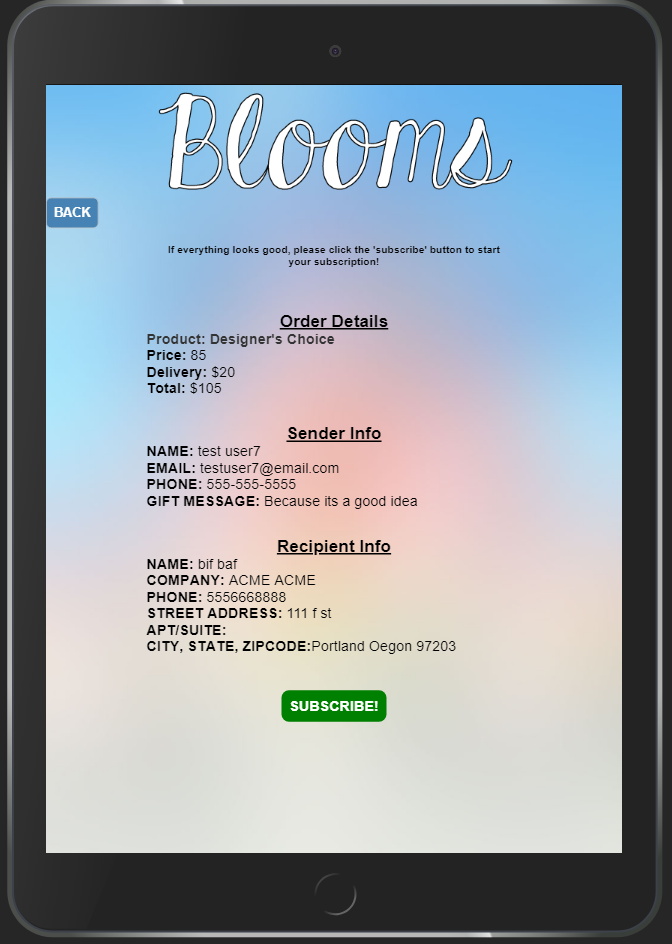
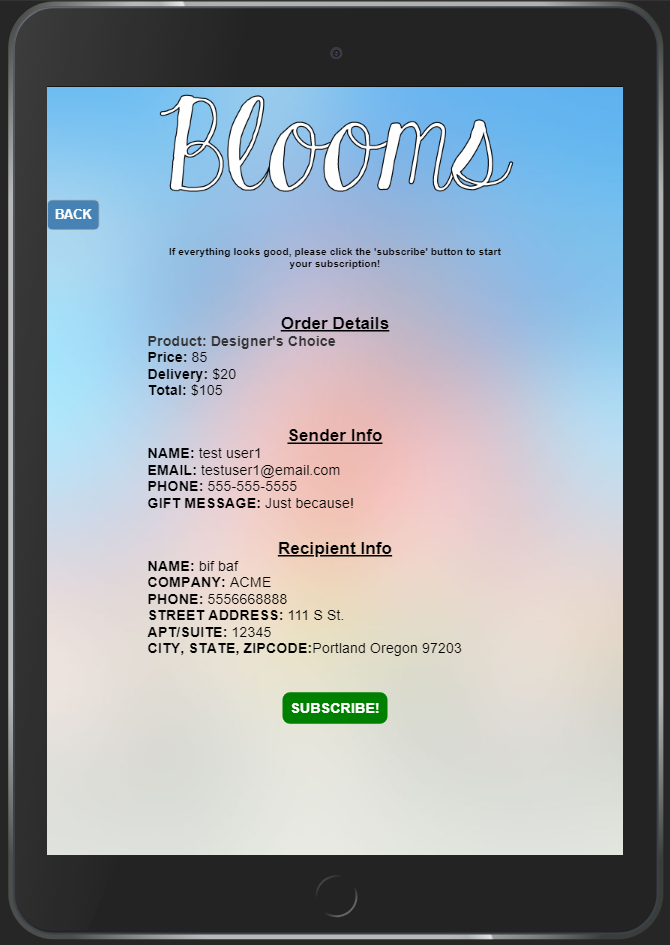
fixed Apt/Suite info

diff --git a/src/components/subscription-add-form.js b/src/components/subscription-add-form.js
@@ -25,7 +25,7 @@ export class SubscriptionAddForm extends React.Component {
     values['frequency'] = this.props.current.frequency;
     values['duration'] = this.props.current.duration;
     values['userId'] = this.props.currentUser._id;
-// console.log('submitted values: ', values);
+console.log('submitted values: ', values);
     // return fetch(`${API_BASE_URL}/protected/subscriptions`, {
     return fetch(`${API_BASE_URL}/subscriptions`, {
       method:'POST',
@@ -325,9 +325,9 @@ console.log('validating');
                       validate={[required, nonEmpty]}
                     />
                   </label>                            
-                  <label htmlFor="RecipientAptSuite" className="RecipientAptSuite">APT /SUITE                            
+                  <label htmlFor="recipientAptSuite" className="recipientAptSuite">APT /SUITE                            
                     <Field
-                      name="RecipientAptSuite"
+                      name="recipientAptSuite"
                       type="text"
                       component={Input}
                       placeholder=""
@@ -476,7 +476,7 @@ console.log('validating');
                 <div className="receiverBlock">
                   <h5>Recipient Info</h5>
                   <p className="recipient name"><span className="bold">NAME: </span>{this.props.currentValues.recipientFirstName} {this.props.currentValues.recipientLastName}</p>
-                  <p className="recipient company"><span className="bold">COMPANY: </span>{this.props.currentValues.recipientCompany} {this.props.currentValues.recipientCompany}</p>
+                  <p className="recipient company"><span className="bold">COMPANY: </span>{this.props.currentValues.recipientCompany} </p>
                   <p className="recipient phone"><span className="bold">PHONE: </span>{this.props.currentValues.recipientPhone}</p>
                   <p className="recipient streetAddress"><span className="bold">STREET ADDRESS: </span>{this.props.currentValues.recipientAddress}</p>
                   <p className="recipient aptSuite"><span className="bold">APT/SUITE: </span>{this.props.currentValues.recipientAptSuite}</p>
